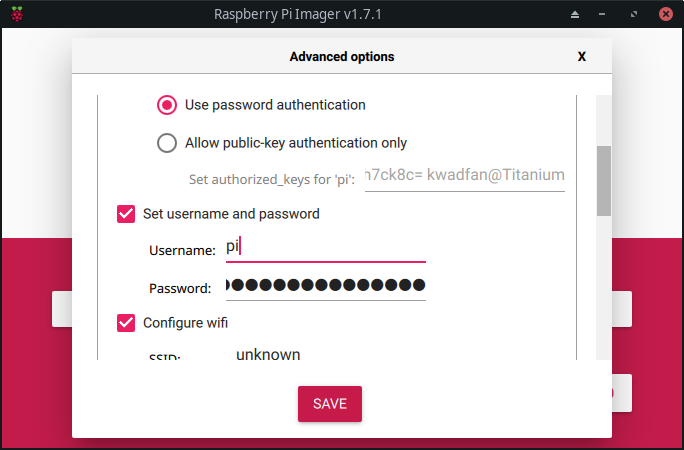
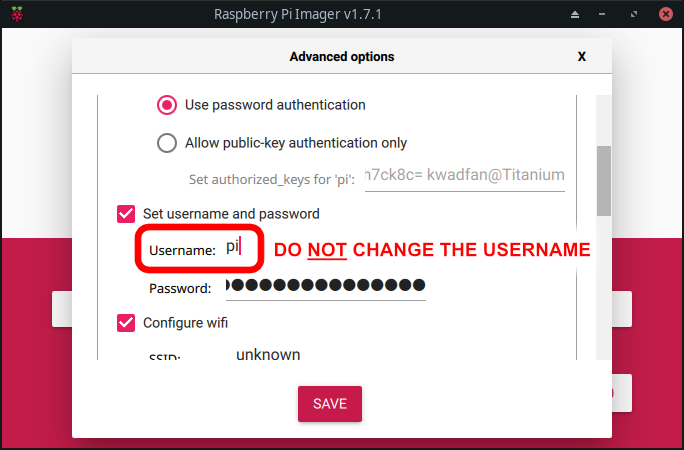
docs: changed screenshot 'rpi-setup-username.png'
Shortened text in according Alert Box.

Added Alert box for Hostname change.

Changed region(s): [[0.1842, 0.4978, 0.8596, 0.6222]]

diff --git a/setup-guide/mainsailos/pi-imager.md b/setup-guide/mainsailos/pi-imager.md
@@ -60,20 +60,25 @@ Raspberry Pi Imager appearance may vary depending on the host OS.
 
 ![screenshot-imager-cogwheel](img/rpi-cogwheel.png)
 
-- Setup your hostname and enable SSH.
+- Enable SSH.
 
-As a bare minimum setup SSH and a network connection  
+As a bare minimum, setup SSH and a network connection  
 at this point, especially if performing a 'headless' installation.
 {: .info}
+
+- Optional: Setup your prefered hostname
+
+If you change the hostname, the URL will be changed accordingly.\
+As shown in the screenshot below your URL will be **_http://mainsail.local_**
+{: .alert}
 
 ![screenshot-imager-setup-ssh](img/rpi-setup-ssh.png)
 
 - Change your password, this step is highly recommended!
 
 **Please don't change the username!**  
-**This will have unwanted side effects!**  
-At this Stage MainsailOS Setup relays on the User "pi".  
-We will change that in the Future.
+At this stage MainsailOS Setup relays on the user "pi".  
+We will change that in the future.
 {: .alert}
 
 ![screenshot-imager-setup-username](img/rpi-setup-username.png)
